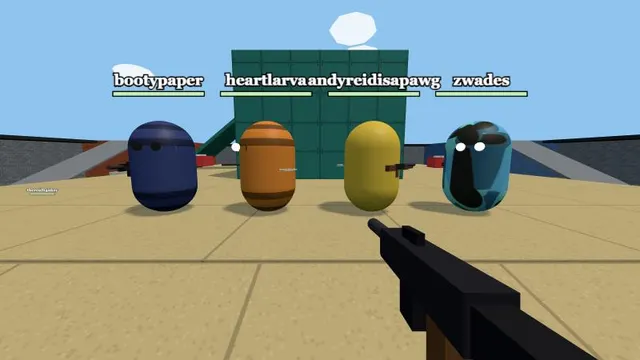
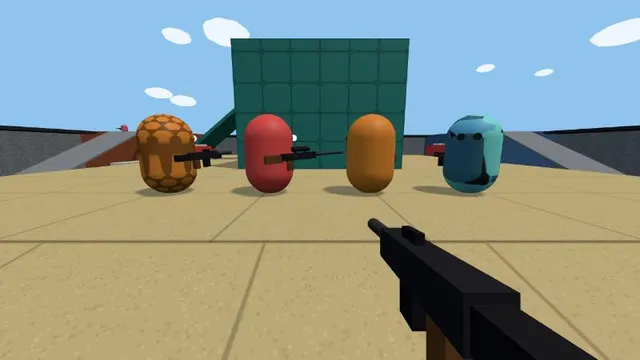
Blockshot Play tab, cleaned up: pictures above the words on every card, the button, then challenges and guns as rows on the same three columns, keys and account as two quiet lines; Gun Game picture without name tags
blockshot.js ?v=31, css ?v=19, card pictures ?v=2

diff --git a/arcade/blockshot/blockshot.css b/arcade/blockshot/blockshot.css
@@ -40,11 +40,11 @@ h2{margin:0 0 6px;font:800 26px/1.1 var(--font);text-transform:uppercase;letter-
 .weps{position:absolute;left:50%;bottom:14px;transform:translateX(-50%);display:flex;gap:6px;pointer-events:none}
 .weps span{padding:3px 9px;background:var(--panel);font-size:12px;letter-spacing:1px;text-transform:uppercase;color:var(--dim)}.weps span.on{color:var(--you);border-bottom:2px solid var(--you)}.acct{margin:18px 0 0!important}.acct a{color:var(--info)}
 .pm-top{display:flex;align-items:center;gap:22px;flex-wrap:wrap}.go.big{margin:0;padding:16px 42px;font-size:22px;letter-spacing:3px}.pm-who{margin:0!important;color:var(--dim)!important;font-size:14px!important;line-height:1.4}.pm-who b{color:var(--ink)}.pm-who small{font-size:12px}
-.gpick{display:flex;gap:8px;flex-wrap:wrap}.gp{display:grid;grid-template-columns:auto 1fr;grid-template-rows:auto auto;column-gap:12px;align-items:center;padding:10px 16px 10px 12px;min-width:180px;background:rgba(255,255,255,.04);border:1px solid var(--line);color:#cfd5de;font:600 14px/1.2 var(--font);text-align:left;cursor:pointer;transition:border-color .12s}.gp b{grid-row:span 2;font-size:24px;color:var(--dim)}.gp span{text-transform:uppercase;letter-spacing:1.5px;font-weight:800}.gp small{color:var(--dim);font-size:12.5px}.gp.on{border-color:var(--you);color:var(--ink);background:rgba(255,216,74,.06)}.gp.on b{color:var(--you)}
+.gpick{display:grid;grid-template-columns:repeat(3,1fr);gap:14px;max-width:1040px}.gp{display:grid;grid-template-columns:auto 1fr;grid-template-rows:auto auto;column-gap:12px;align-items:center;padding:10px 16px 10px 12px;min-width:0;background:rgba(255,255,255,.04);border:1px solid var(--line);color:#cfd5de;font:600 14px/1.2 var(--font);text-align:left;cursor:pointer;transition:border-color .12s}.gp b{grid-row:span 2;font-size:24px;color:var(--dim)}.gp span{text-transform:uppercase;letter-spacing:1.5px;font-weight:800}.gp small{color:var(--dim);font-size:12.5px}.gp.on{border-color:var(--you);color:var(--ink);background:rgba(255,216,74,.06)}.gp.on b{color:var(--you)}
 .pm-row{display:flex;align-items:center;gap:12px;margin-top:20px;flex-wrap:wrap}.eyebrow.inl{margin:0 4px 0 0!important}.seg{display:inline-flex;border:1px solid var(--line)}.seg button{padding:9px 16px;background:none;border:0;color:var(--dim);font:700 13px var(--font);letter-spacing:1px;text-transform:uppercase;cursor:pointer}.seg button+button{border-left:1px solid var(--line)}.seg button.on{background:rgba(255,255,255,.1);color:var(--ink)}.go.sm{margin:0;padding:10px 20px;font-size:13px;letter-spacing:1.5px}
 .pm-pistol{margin:8px 0 0!important;color:var(--dim)!important;font-size:13px!important}.pm-pistol b{color:#cfd5de}
 .pm-cols{display:flex;gap:28px;flex-wrap:wrap;align-items:flex-start;margin-top:4px}.pm-col .eyebrow{margin:14px 0 8px!important}.pm-col .pm-row{margin-top:0}.pm-keys a{color:var(--info)}
-.pm-keys{margin:24px 0 0!important;color:var(--dim)!important;font-size:12.5px!important;letter-spacing:.3px}.pm-keys b{color:#cfd5de;font-weight:700}.lnk{background:none;border:0;color:var(--info);cursor:pointer;font:inherit;padding:0;text-decoration:underline}
+.pm-acct{margin:6px 0 0!important;color:var(--dim)!important;font-size:12.5px!important}.pm-acct b{color:#cfd5de}.pm-acct a{color:var(--info)}.pm-keys{margin:28px 0 0!important;color:var(--dim)!important;font-size:12.5px!important;letter-spacing:.3px}.pm-keys b{color:#cfd5de;font-weight:700}.lnk{background:none;border:0;color:var(--info);cursor:pointer;font:inherit;padding:0;text-decoration:underline}
 .weps span.next{color:var(--info);border-bottom:2px dashed var(--info)}
 #xhair{position:absolute;left:50%;top:50%;width:0;height:0;pointer-events:none;--gap:5px;--len:8px;--w:2px;--c:rgba(255,255,255,.95)}
 #xhair i{position:absolute;background:var(--c);box-shadow:0 0 2px #000;transition:transform .08s}
@@ -72,17 +72,20 @@ h2{margin:0 0 6px;font:800 26px/1.1 var(--font);text-transform:uppercase;letter-
 .rc-side{display:grid;gap:4px;font-size:14px;letter-spacing:1px;text-transform:uppercase}.rc-side.r{text-align:right}.rc-side h4{margin:0 0 4px;font-size:11px;letter-spacing:3px;color:var(--dim)}.rc-side.us h4{color:var(--you)}.rc-side.them h4{color:var(--danger)}.rc-side span{color:var(--ink)}.rc-side span small{color:var(--dim);font-size:11px;letter-spacing:1px}.rc-side span.dead{color:var(--dim);text-decoration:line-through}
 .rc-mid{text-align:center;min-width:220px}.rc-mid b{display:block;font-size:34px;line-height:1;font-weight:800;letter-spacing:4px;text-transform:uppercase;color:var(--you)}.rc-mid b.lost{color:var(--danger)}.rc-mid small{display:block;margin-top:6px;font-size:13px;letter-spacing:2px;text-transform:uppercase;color:var(--ink)}.rc-mid em{display:block;margin-top:8px;font-style:normal;font-size:22px;font-weight:800;letter-spacing:3px}.rc-mid em i{font-style:normal;color:var(--you)}.rc-mid em i+i{color:var(--danger)}
 /* the server cards (2026-10-11) */
-.srv{display:grid;grid-template-columns:repeat(3,1fr);gap:12px;margin-bottom:14px;max-width:1040px}.srv.one{grid-template-columns:minmax(0,360px)}@media (max-width:760px){.srv{grid-template-columns:1fr}}
-.srv-card{position:relative;display:flex;flex-direction:column;justify-content:space-between;min-height:224px;padding:14px 16px;border:1px solid var(--line);background:#11151d var(--img) center/cover no-repeat;color:var(--ink);font:inherit;text-align:left;cursor:pointer;overflow:hidden;transition:border-color .12s,transform .12s}
-.srv-card::before{content:"";position:absolute;inset:0;background:linear-gradient(180deg,rgba(8,10,16,.25),rgba(8,10,16,.3) 40%,rgba(8,10,16,.9));pointer-events:none}
-.srv-card>*{position:relative}.srv-card:hover{transform:translateY(-2px);border-color:rgba(255,255,255,.3)}.srv-card.on{border-color:var(--you);box-shadow:inset 0 0 0 1px var(--you)}.srv-card.on::after{content:"PLAYING";position:absolute;right:10px;top:10px;padding:2px 7px;background:var(--you);color:#1a1300;font-size:9px;letter-spacing:2px;font-weight:800}
-.srv-top b{display:block;font-size:22px;letter-spacing:2px;text-transform:uppercase;text-shadow:0 1px 2px #000}.srv-top small{display:block;font-size:11px;letter-spacing:1px;color:#cfd5de;text-shadow:0 1px 2px #000}
-.srv-live b{display:block;font-size:13px;letter-spacing:1.5px;text-transform:uppercase;color:var(--you)}.srv-live span{display:block;font-size:11px;color:#cfd5de;line-height:1.3;max-height:2.6em;overflow:hidden}.srv-live i{display:block;font-style:normal;font-size:10.5px;letter-spacing:1px;text-transform:uppercase;color:var(--dim);margin-top:2px}
+.srv{display:grid;grid-template-columns:repeat(3,1fr);gap:14px;max-width:1040px}.srv.one{grid-template-columns:minmax(0,340px)}
+.srv-card{display:flex;flex-direction:column;padding:0;border:1px solid var(--line);background:#0f131a;color:var(--ink);font:inherit;text-align:left;cursor:pointer;overflow:hidden;transition:border-color .12s}
+.srv-img{display:block;aspect-ratio:16/9;background:#11151d var(--img) center/cover no-repeat}
+.srv-body{display:block;padding:10px 14px 12px}
+.srv-top b{display:block;font-size:17px;letter-spacing:2px;text-transform:uppercase}.srv-top small{display:block;font-size:11.5px;color:var(--dim);margin-top:2px}
+.srv-live{display:block;margin-top:9px;padding-top:9px;border-top:1px solid var(--line);font-size:11.5px;line-height:1.4}.srv-live b{font-size:11.5px;letter-spacing:1.5px;text-transform:uppercase;color:var(--you)}.srv-live i{font-style:normal;color:var(--dim)}.srv-live i::before{content:" · "}.srv-live span{display:block;color:#cfd5de;max-height:2.8em;overflow:hidden}
+.srv-card:hover{border-color:rgba(255,255,255,.3)}.srv-card.on{border-color:var(--you);box-shadow:inset 0 0 0 1px var(--you)}.srv-card.on .srv-top b{color:var(--you)}
+.pm-go{display:flex;align-items:center;gap:22px;flex-wrap:wrap;margin-top:22px;max-width:1040px}
+.pm-sec{max-width:1040px;margin-top:28px}.pm-sec .eyebrow{margin:0 0 10px!important}
 /* the batch of 2026-10-11: feed gun chips, vote cards, the ladder, challenges */
 .feed .fd-gun{display:inline-block;padding:0 6px;margin:0 2px;font-style:normal;font-size:10px;letter-spacing:1.5px;text-transform:uppercase;background:rgba(255,255,255,.12);border-radius:2px;vertical-align:middle}.feed .fd-gun.skin{background:var(--sw) center/cover;color:#fff;text-shadow:0 1px 2px #000,0 0 3px #000}
 .vote .vote-card{position:relative;display:flex;flex-direction:column;justify-content:flex-end;width:150px;height:84px;padding:6px 8px;background:#11151d var(--img) center/cover no-repeat;border:1px solid var(--line);color:var(--ink);text-align:left;overflow:hidden}.vote .vote-card::before{content:"";position:absolute;inset:0;background:linear-gradient(180deg,transparent 30%,rgba(8,10,16,.85))}.vote .vote-card>*{position:relative}.vote .vote-card b{font-size:12px;letter-spacing:1.5px;text-transform:uppercase}.vote .vote-card i{position:absolute;right:6px;top:6px;margin:0}.vote .vote-card.on{border-color:var(--you);box-shadow:inset 0 0 0 1px var(--you)}
 .weps span.done{color:#8ae07a;border-bottom:2px solid #8ae07a}
-.chal{display:flex;align-items:center;gap:10px;flex-wrap:wrap;margin-top:14px}.chal-c{min-width:180px;padding:7px 10px;background:rgba(255,255,255,.04);border:1px solid var(--line)}.chal-c b{display:block;font-size:12px;letter-spacing:1px;text-transform:uppercase}.chal-c i{display:block;height:4px;margin:5px 0 4px;background:rgba(255,255,255,.1)}.chal-c i s{display:block;height:100%;background:var(--info)}.chal-c small{font-size:10.5px;letter-spacing:1px;color:var(--dim);text-transform:uppercase}.chal-c.done{border-color:rgba(138,224,122,.5)}.chal-c.done i s{background:#8ae07a}.chal-c.done small{color:#8ae07a}
+.chal{display:grid;grid-template-columns:repeat(3,1fr);gap:14px}.chal-c{display:grid;grid-template-columns:1fr auto;align-items:center;gap:6px 12px;padding:11px 14px 12px;background:rgba(255,255,255,.04);border:1px solid var(--line)}.chal-c b{font-size:12.5px;letter-spacing:1px;text-transform:uppercase}.chal-c small{font-size:11px;letter-spacing:1px;color:var(--dim);text-transform:uppercase;white-space:nowrap}.chal-c i{grid-column:1/-1;display:block;height:3px;background:rgba(255,255,255,.1)}.chal-c i s{display:block;height:100%;background:var(--info)}.chal-c.done{border-color:rgba(138,224,122,.5)}.chal-c.done i s{background:#8ae07a}.chal-c.done small{color:#8ae07a}.chal-note{grid-column:1/-1;margin:0!important}
 .brassline{color:var(--you)!important;font-weight:800}
 /* parkour (2026-10-10) */
 .md{display:inline-block;width:10px;height:10px;border-radius:50%;vertical-align:middle;margin-left:2px}.md.gold{background:#ffd84a}.md.silver{background:#c0c8d8}.md.bronze{background:#b87333}

diff --git a/arcade/blockshot/blockshot.js b/arcade/blockshot/blockshot.js
@@ -297,7 +297,7 @@ let t = 0, roundT = 0, state = "menu", countdown = 0, countBeep = 0, mapKey = MA
    in practice the rules' own object, stepped here; online a copy decoded from the snapshot's `bm` block. Six beans play; the other six
    of the twelve are parked dead and hidden. The dead watch a living teammate (`spec`). E is "use": plant or defuse. */
 let mode = ["bomb", "park", "gg"].includes(new URLSearchParams(location.search).get("mode")) ? new URLSearchParams(location.search).get("mode") : "ffa", bomb = null, spec = null;
-const MAP_IMG = { lot: "ffa", docks: "docks", roofs: "roofs" };
+const MAP_IMG = { lot: "ffa", docks: "docks", roofs: "roofs" }, IMG_V = 2;   // bump IMG_V when a card picture changes: the real URL is cached for a year
 /* GUN GAME on the page (2026-10-11): the rules move the gun on every kill (`b.gg`); the page only shows the step and never swaps by hand. */
 const gunPick = (b) => (mode === "gg" ? ggGun(b) : b.bot ? pick(["ar", "ar", "sniper", "shotgun"]) : nextGun);
 /* PARKOUR on the page (2026-10-10). `courseKey` is the practice course; online the room says. `me.park` is the run (practice: the rules'
@@ -461,7 +461,7 @@ function endOnline(m) {
   }
   showMenu("result", resultHtml({ headline: mode === "bomb" && m.score ? `${y.won ? "Your team wins" : "Your team loses"} ${m.score[myTeam()]}–${m.score[1 - myTeam()]}` : y.won ? "You win!" : `${esc(ranks[0].name)} wins`, sub: `${mode === "bomb" ? "Bomb · 3v3 · " : ""}${esc(world.map.name)}`, meSlot: me.i, ranks,
     line: `You came <b>${ord(y.place)}</b> of ${PLAYERS} · <b>${y.kills}</b> kills, <b>${y.deaths}</b> deaths · ${meStats.shots ? Math.round((meStats.hits / meStats.shots) * 100) : 0}% accuracy · best streak ${y.streak}`,
-    xpHtml: xpHtml + (brassNow ? `<p class="note brassline">+${brassNow} Brass for this round${online ? " · +100 more if it was your first of the day" : ""}</p>` : ""), foot: "", top: mode === "bomb" ? `<span class="next" id="nextIn"></span>` : `<div class="vote"><span class="eyebrow inl">Vote the next map</span>${MAP_LIST.map((k) => `<button class="vote-card" data-vote="${k}" style="--img:url(${IMG_BASE}${MAP_IMG[k] || "ffa"}.webp?v=1)"><b>${esc(MAPS[k]().name)}</b><i>0</i></button>`).join("")}<span class="next" id="nextIn"></span></div>` }));
+    xpHtml: xpHtml + (brassNow ? `<p class="note brassline">+${brassNow} Brass for this round${online ? " · +100 more if it was your first of the day" : ""}</p>` : ""), foot: "", top: mode === "bomb" ? `<span class="next" id="nextIn"></span>` : `<div class="vote"><span class="eyebrow inl">Vote the next map</span>${MAP_LIST.map((k) => `<button class="vote-card" data-vote="${k}" style="--img:url(${IMG_BASE}${MAP_IMG[k] || "ffa"}.webp?v=${IMG_V})"><b>${esc(MAPS[k]().name)}</b><i>0</i></button>`).join("")}<span class="next" id="nextIn"></span></div>` }));
   drawPodium(ranks.slice(0, 3).map((r) => r.s)); fillBars(); nextCountdown(m.gap || 18);
 }
 async function playOnline() {
@@ -485,14 +485,14 @@ async function pollServers() {
     const el = $(`srv-${sv.key}`); if (!el) return;
     if (!j || !j.ok) { el.innerHTML = `<b>offline</b>`; return; }
     const n = j.playing || 0, names = (j.names || []).slice(0, 6), extra = `${sv.key === "ffa" || sv.key === "gg" ? `${MAPS[j.map] ? MAPS[j.map]().name : ""}${sv.key === "gg" && j.top ? ` · leader on gun ${j.top + 1}` : ""}` : sv.key === "bomb" ? (j.round ? `round ${j.round} · ${j.score?.[0] ?? 0}–${j.score?.[1] ?? 0}` : "") : (PARK_MAPS.includes(j.course) ? MAPS[j.course]().name : "")}`;
-    el.innerHTML = `<b>${n ? `${n} playing now` : sv.key === "park" ? "nobody on" : "nobody on · bots only"}</b>${names.length ? `<span>${names.map(esc).join(", ")}${(j.names || []).length > 6 ? ` +${j.names.length - 6}` : ""}</span>` : ""}${extra ? `<i>${esc(extra)}</i>` : ""}`;
+    el.innerHTML = `<b>${n ? `${n} playing now` : sv.key === "park" ? "nobody on" : "nobody on · bots only"}</b>${extra ? `<i>${esc(extra)}</i>` : ""}${names.length ? `<span>${names.map(esc).join(", ")}${(j.names || []).length > 6 ? ` +${j.names.length - 6}` : ""}</span>` : ""}`;
   }));
 }
 /* DAILY CHALLENGES (2026-10-11): three a day from the site, progress from the day's reported rounds; a met one is paid on the next read. */
 async function challenges() {
   const el = $("chal"); if (!el) return;
   try { const j = await fetch("/api/blockshot/challenges", { credentials: "same-origin", cache: "no-store" }).then((r) => r.json()); if (!j.ok || !$("chal")) return;
-    $("chal").innerHTML = `<span class="eyebrow inl">Today</span>${j.list.map((c) => `<div class="chal-c${c.claimed ? " done" : ""}"><b>${esc(c.text)}</b><i><s style="width:${Math.round((c.have / c.target) * 100)}%"></s></i><small>${c.claimed ? `done · +${c.brass} Brass` : `${c.have} / ${c.target} · ${c.brass} Brass`}</small></div>`).join("")}${j.me ? "" : `<small class="note">sign in to earn them</small>`}`;
+    $("chal").innerHTML = `${j.list.map((c) => `<div class="chal-c${c.claimed ? " done" : ""}"><b>${esc(c.text)}</b><small>${c.claimed ? `✓ +${c.brass} Brass` : `${c.have} / ${c.target} · ${c.brass} Brass`}</small><i><s style="width:${Math.round((c.have / c.target) * 100)}%"></s></i></div>`).join("")}${j.me ? "" : `<p class="note chal-note">Sign in with Twitch to earn them.</p>`}`;
     if (j.paid) { hint(`Challenge done · +${j.paid} Brass`); if (armory.data?.me) armory.data.me.brass = j.brass; } } catch {}
 }
 function serversTick() { clearInterval(serversT); pollServers(); serversT = setInterval(() => { if ($("over").hidden || tab !== "play") { clearInterval(serversT); return; } pollServers(); }, 10000); }
@@ -592,17 +592,17 @@ function showMenu(which, html) { tab = which; if (locked) document.exitPointerLo
 function drawMenu() {
   /* THE PLAY TAB (2026-10-11, the owner: "move practice options, and parkour, to their own tab and remove them from start page"): the
      three online rooms as cards, the button, today's challenges, the gun chips, one line of keys. Practice and Parkour are tabs of their own. */
-  const keysLine = (park) => `<p class="pm-keys">${park ? `<b>WASD</b> move · <b>Shift</b> slide · <b>Space</b> jump · <b>R</b> back to the checkpoint · <b>Esc</b> menu` : `<b>WASD</b> move · <b>Shift</b> slide · <b>Space</b> jump · <b>R</b> reload · <b>1 2 3</b> guns · <b>4</b> pistol · <b>5</b> knife · <b>Q</b> cycle · <b>Tab</b> scores · <b>Esc</b> menu`}${site.on && !profile.server ? ` · <a href="/api/picks/auth/twitch/start?returnTo=${encodeURIComponent(location.pathname + location.search)}">Sign in with Twitch</a> to keep your level, skins and stats` : profile.server ? ` · signed in as <b>${esc(profile.name || profile.login || "you")}</b> · <button class="lnk" data-logout="1">Sign out</button>` : ""}</p>`;
+  const keysLine = (park) => `<p class="pm-keys">${park ? `<b>WASD</b> move · <b>Shift</b> slide · <b>Space</b> jump · <b>R</b> back to the checkpoint · <b>Esc</b> menu` : `<b>WASD</b> move · <b>Shift</b> slide · <b>Space</b> jump · <b>R</b> reload · <b>1 2 3</b> guns · <b>4</b> pistol · <b>5</b> knife · <b>Q</b> cycle · <b>Tab</b> scores · <b>Esc</b> menu`}</p><p class="pm-acct">${site.on && !profile.server ? `<a href="/api/picks/auth/twitch/start?returnTo=${encodeURIComponent(location.pathname + location.search)}">Sign in with Twitch</a> to keep your level, skins and stats` : profile.server ? `Signed in as <b>${esc(profile.name || profile.login || "you")}</b> · <button class="lnk" data-logout="1">Sign out</button>` : ""}</p>`;
   const ROLE = { ar: "All-rounder", sniper: "One shot, one kill", shotgun: "Close range" };
   const gunChips = () => (mode === "gg" ? `<p class="note" style="margin:0">Gun Game hands you the gun: every kill is the next one on the ladder.</p>` : `<div class="gpick">${PRIMARY_KEYS.map((k, i) => { const g = GUNS[k]; return `<button class="gp${k === nextGun ? " on" : ""}" data-gun="${k}" title="${esc(g.text)}"><b>${i + 1}</b><span>${esc(g.n)}</span><small>${ROLE[k]}</small></button>`; }).join("")}</div>`);
-  const srvCard = (sv) => `<button class="srv-card${mode === sv.key ? " on" : ""}" data-mode="${sv.key}" title="${esc(MODE_BLURB[sv.key])}" style="--img:url(${IMG_BASE}${sv.img}.webp?v=1)"><span class="srv-top"><b>${sv.n}</b><small>${sv.sub}</small></span><span class="srv-live" id="srv-${sv.key}"><b>…</b></span></button>`;
+  const srvCard = (sv) => `<button class="srv-card${mode === sv.key ? " on" : ""}" data-mode="${sv.key}" title="${esc(MODE_BLURB[sv.key])}"><span class="srv-img" style="--img:url(${IMG_BASE}${sv.img}.webp?v=${IMG_V})"></span><span class="srv-body"><span class="srv-top"><b>${sv.n}</b><small>${sv.sub}</small></span><span class="srv-live" id="srv-${sv.key}"><b>…</b></span></span></button>`;
   if (tab === "play") {
     if (mode === "park") mode = "ffa";   // the Play tab is the shooters; Parkour has its own tab
     $("panel").innerHTML = `<div class="pm">
     <div class="srv">${SERVERS.filter((sv) => sv.key !== "park").map(srvCard).join("")}</div>
-    <div class="pm-top"><button class="go big" data-online="1">Play online</button><p id="whoOn" class="pm-who">Looking…</p></div>
-    <div class="chal" id="chal"></div>
-    <div class="pm-cols"><div class="pm-col"><p class="eyebrow">Gun</p>${gunChips()}</div></div>
+    <div class="pm-go"><button class="go big" data-online="1">Play online</button><p id="whoOn" class="pm-who">Looking…</p></div>
+    <section class="pm-sec"><p class="eyebrow">Today's challenges</p><div class="chal" id="chal"></div></section>
+    <section class="pm-sec"><p class="eyebrow">Your gun</p>${gunChips()}</section>
     ${keysLine(false)}
     </div>`; whoIsOn(); serversTick(); challenges(); }
   else if (tab === "practice") {   // you and eleven bots; nothing counts

diff --git a/arcade/blockshot/index.html b/arcade/blockshot/index.html
@@ -11,7 +11,7 @@
 <script>if (new URLSearchParams(location.search).has("embed")) document.documentElement.classList.add("embed");   /* framed on eastcoin.vip: the class is set before the first paint, or the full page with its sidebar shows for a second */</script>
 <link rel="preconnect" href="https://fonts.googleapis.com"><link rel="preconnect" href="https://fonts.gstatic.com" crossorigin>
 <link rel="stylesheet" href="https://fonts.googleapis.com/css2?family=Rajdhani:wght@600;700&display=swap">
-<link rel="stylesheet" href="blockshot.css?v=18">
+<link rel="stylesheet" href="blockshot.css?v=19">
 <script type="importmap">{ "imports": { "three": "https://cdn.jsdelivr.net/npm/three@0.169.0/build/three.module.js", "three/addons/": "https://cdn.jsdelivr.net/npm/three@0.169.0/examples/jsm/" } }</script>
 </head>
 <body>
@@ -69,6 +69,6 @@
     </div>
   </section>
 </main>
-<script type="module" src="blockshot.js?v=30"></script>
+<script type="module" src="blockshot.js?v=31"></script>
 </body>
 </html>
